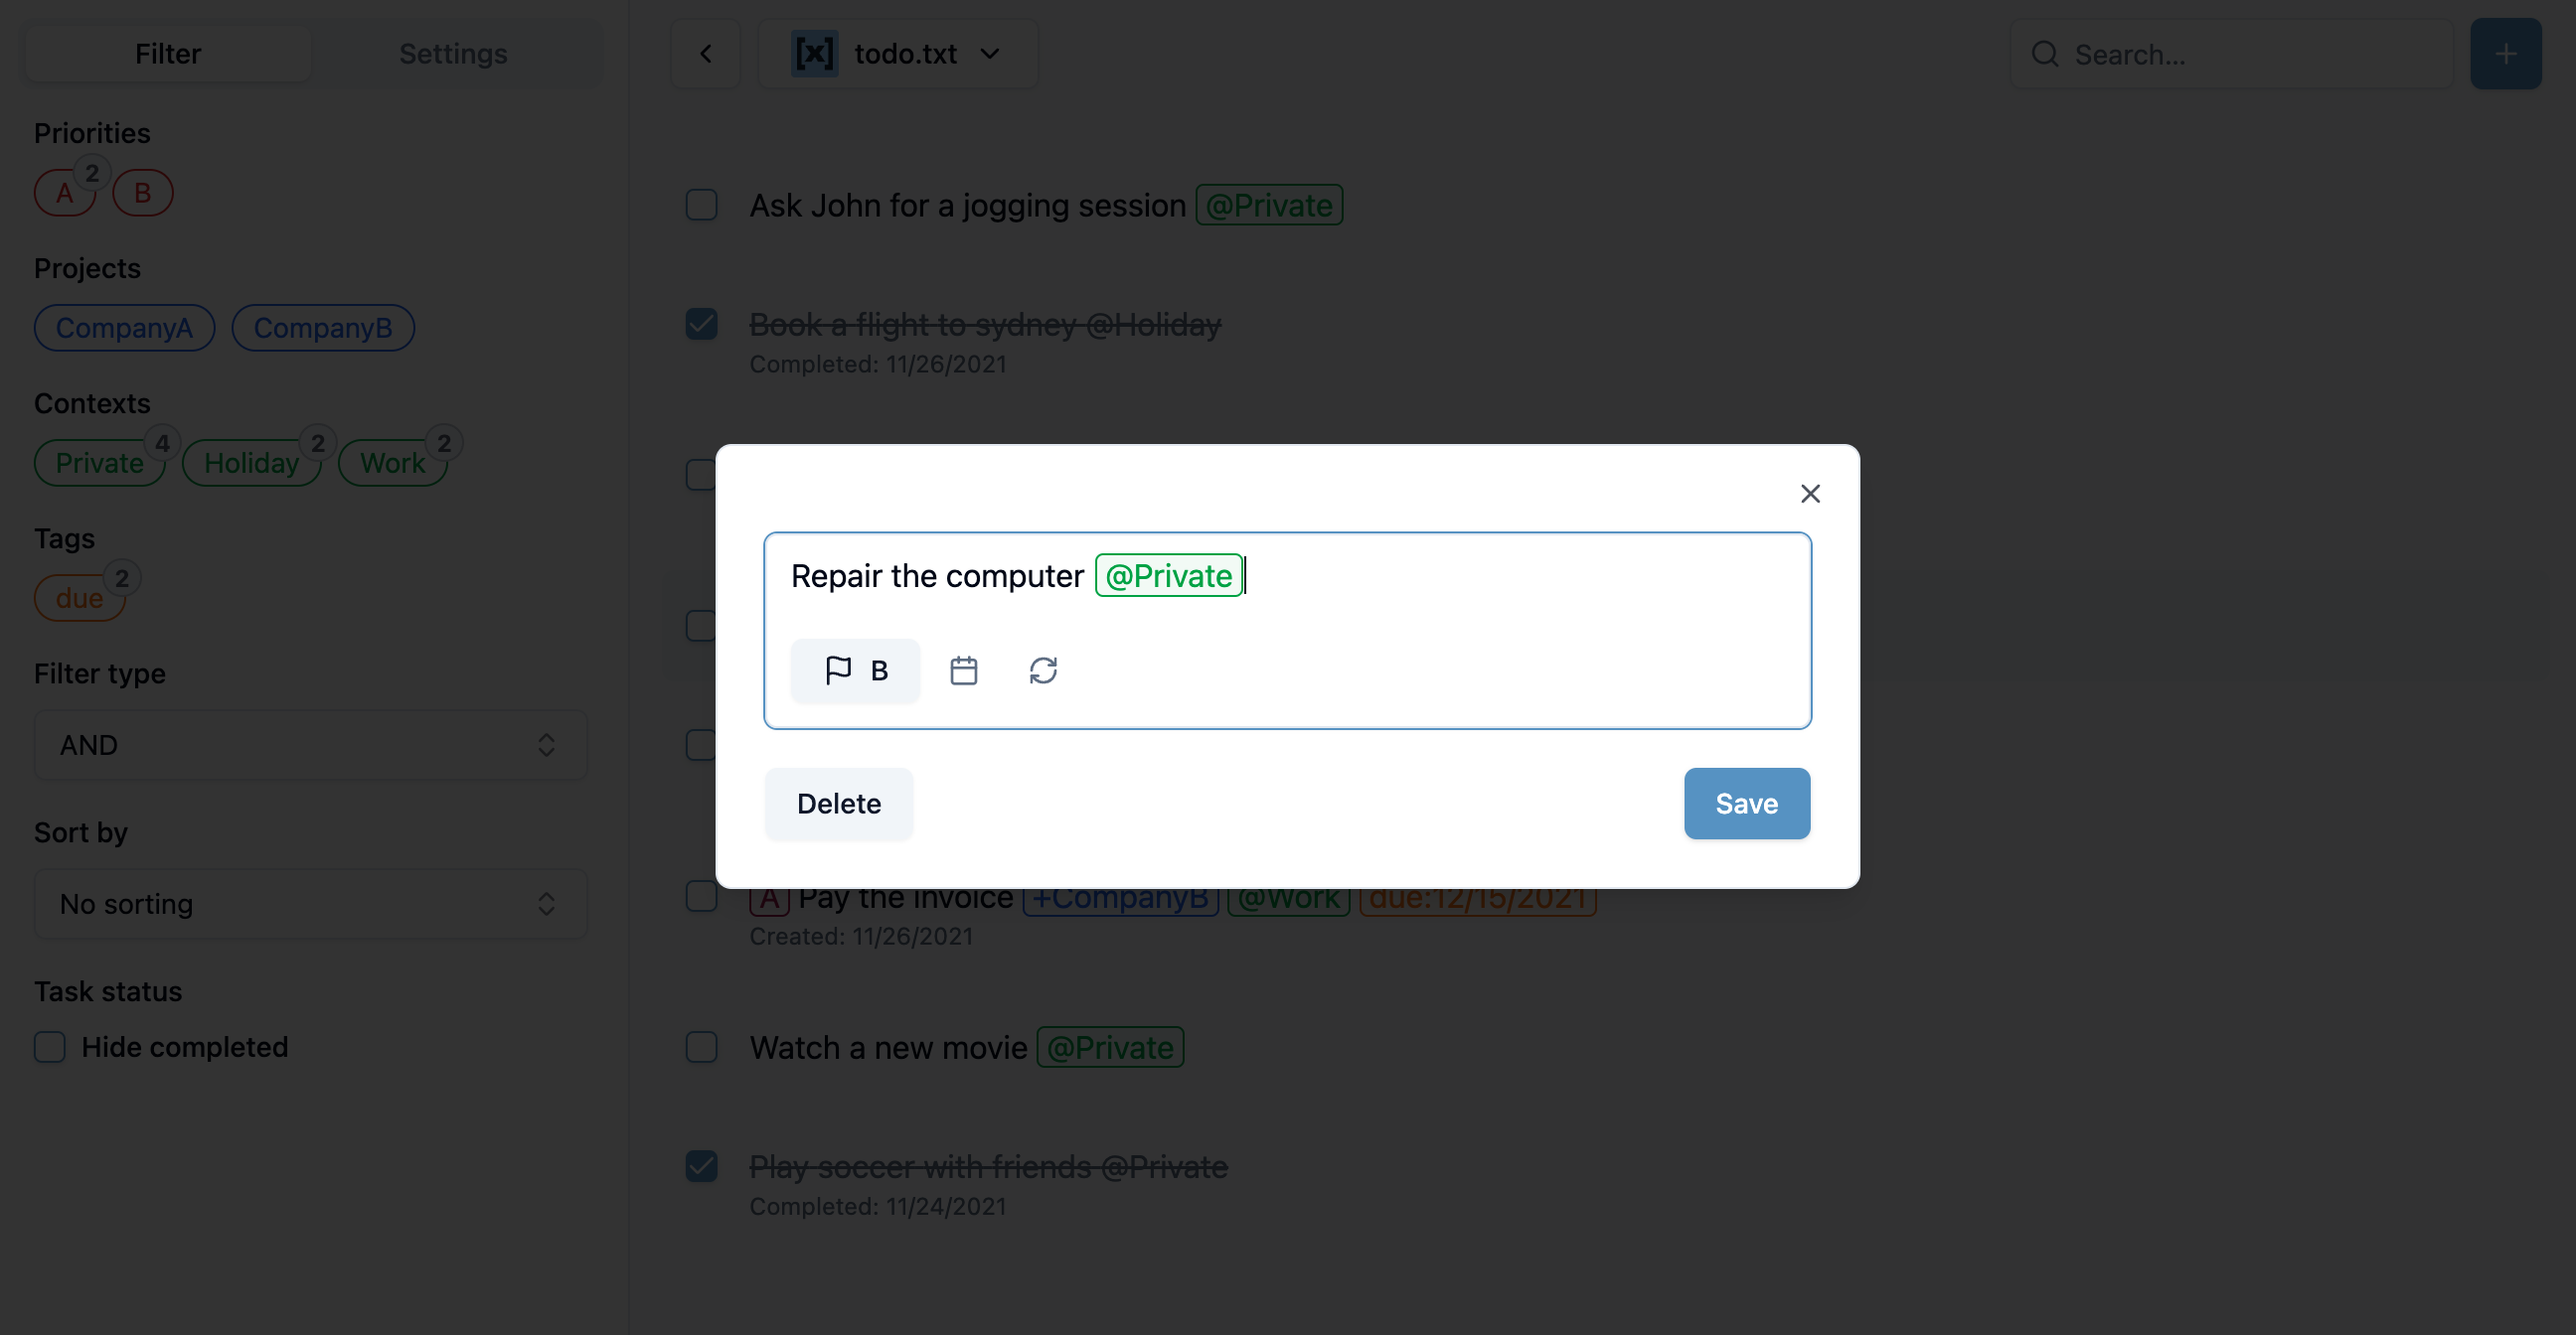
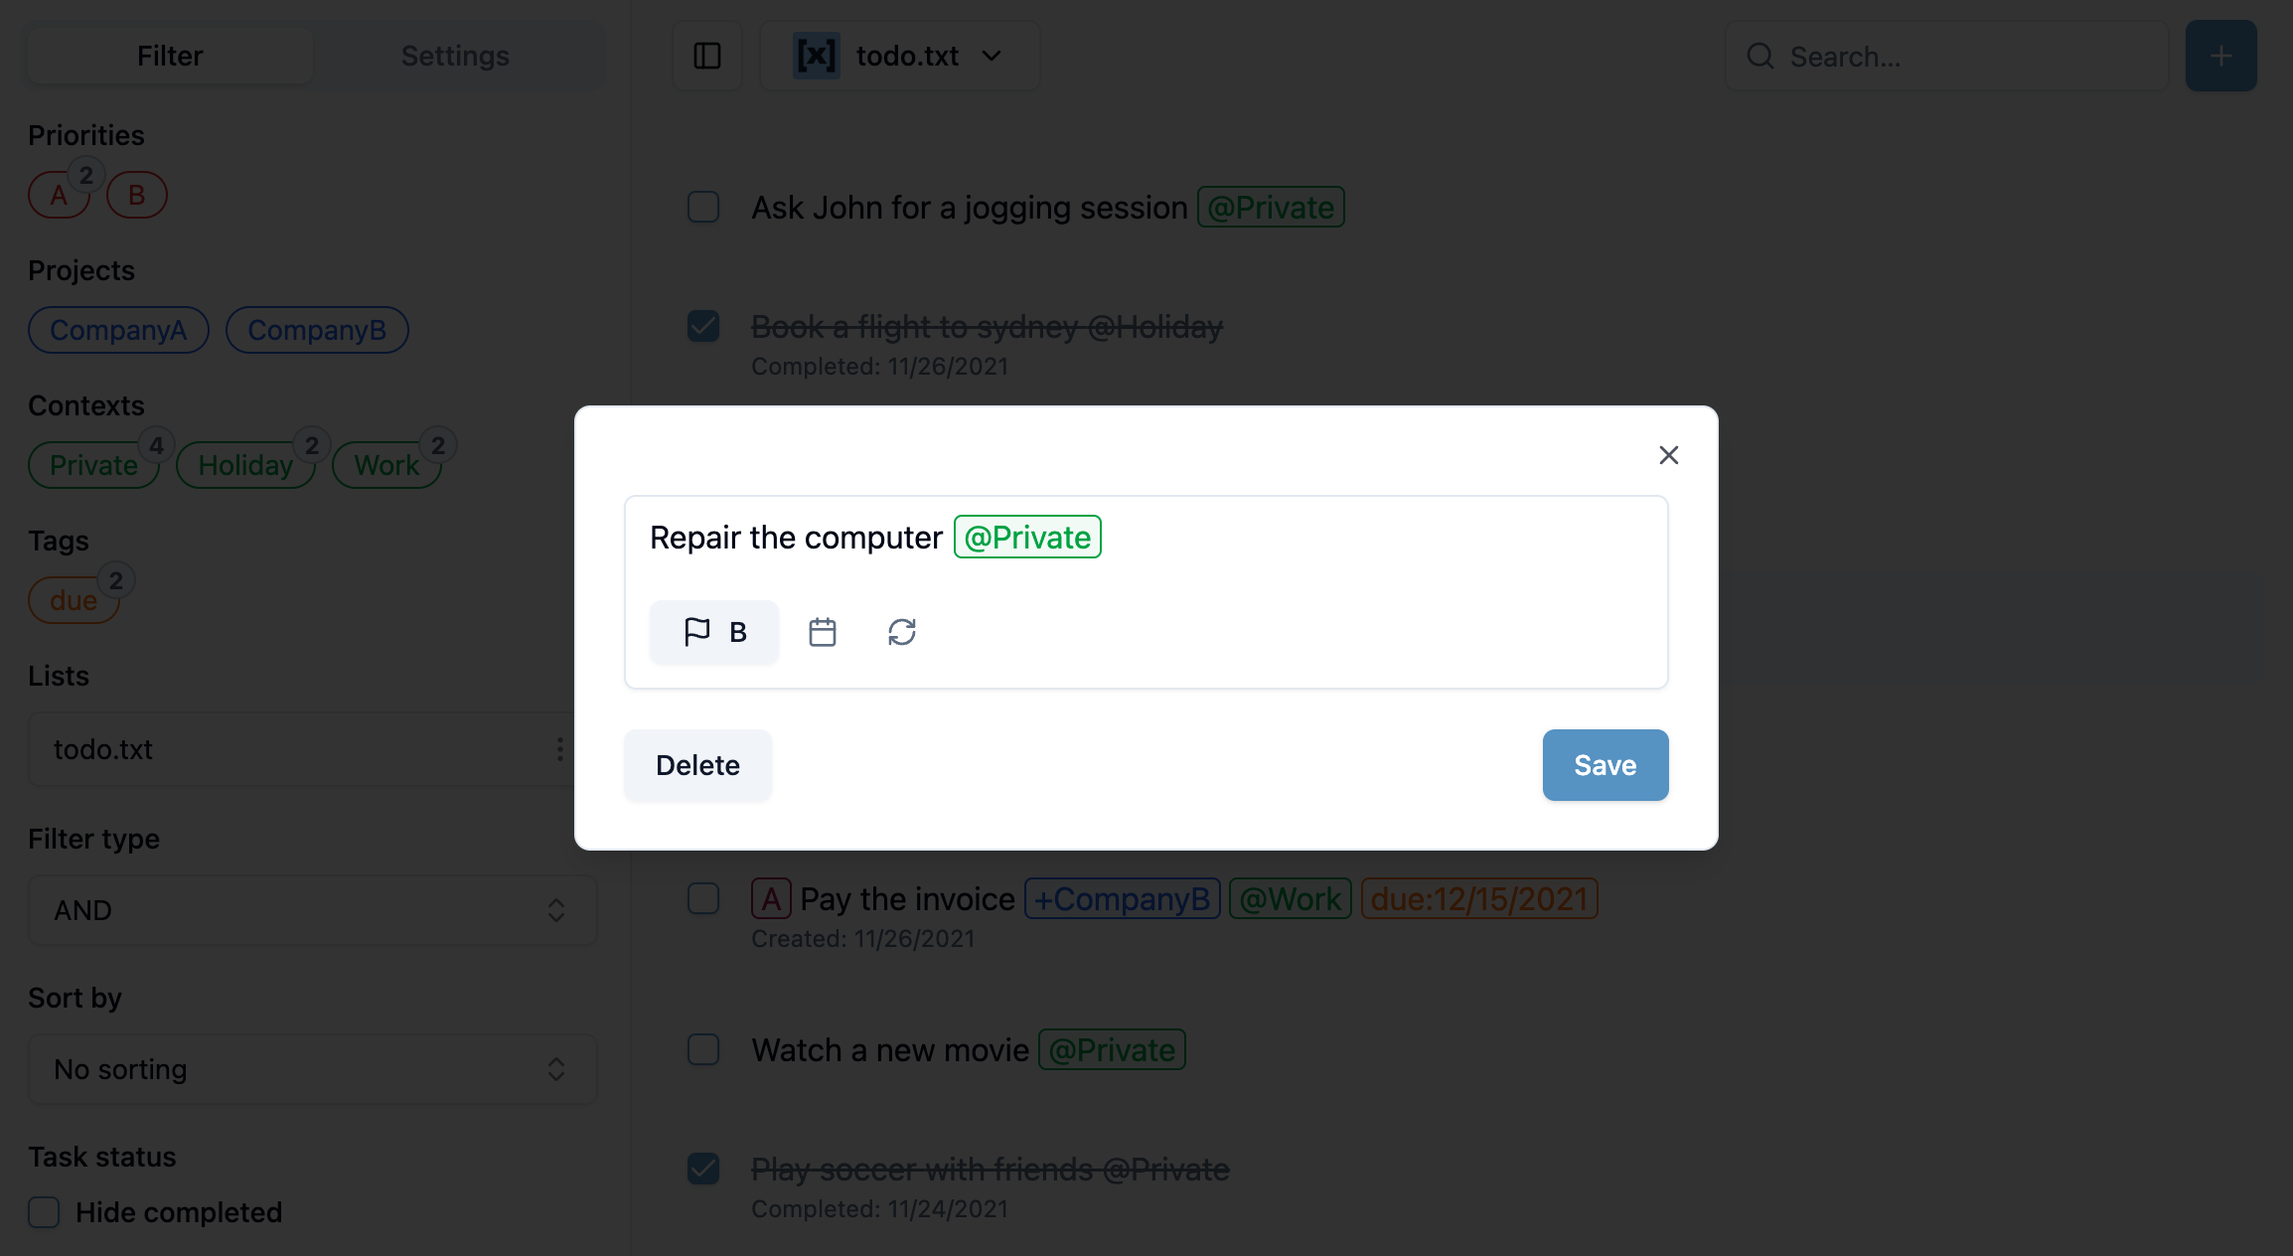
update README.md

diff --git a/README.md b/README.md
@@ -34,7 +34,7 @@ The **todo.txt** format is a simple set of rules that make todo.txt both human a
 
 ## Features
 
-- Filter tasks by projects, contexts, and tags
+- Filter tasks by projects, contexts, tags, priority and lists
 - Sort tasks by due date or priority
 - Group tasks by context, projects or tags
 - Hide completed tasks
